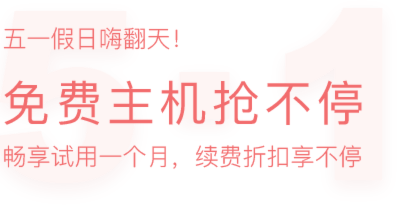
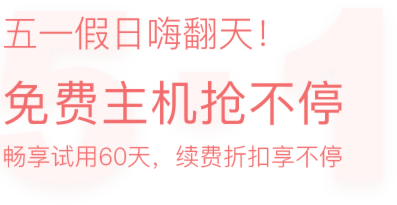
file

Changed region(s): [[0.1209, 0.3805, 0.937, 0.6146], [0.0, 0.0878, 0.665, 0.2634], [0.2418, 0.7024, 0.9068, 0.8195]]

diff --git a/src/components/App/Home.vue b/src/components/App/Home.vue
@@ -2,7 +2,7 @@
   <div id="home">
     <!-- banner 轮播图 -->
     <div class="banner">
-      
+
 
       <my-carousel :interval=5000 effect="fade" class="carousel" @on-change="change">
         <my-carousel-item class="carousel-item">
@@ -26,7 +26,7 @@
               <div>
                 <div>
                   <p>
-                    <img style="padding-top: 0" src="../../assets/img/active/active_1/ziti.png">
+                    <img style="padding-top: 0" src="../../assets/img/active/active_1/ziti1.png">
                   </p>
                   <button>立即领取</button>
                 </div>
@@ -35,9 +35,6 @@
             </div>
           </div>
         </my-carousel-item>
-
-        
-
         <my-carousel-item class="carousel-item">
           <div @click="push('newNodes_1')"
                style="cursor: pointer;background:linear-gradient(90deg, rgba(255, 251, 250, 1), rgba(255, 248, 246, 1));">
@@ -73,22 +70,6 @@
           </div>
         </my-carousel-item>
         <!--<my-carousel-item class="carousel-item">
-          <div @click="push('vps')" style="cursor: pointer;background-image:linear-gradient(90deg,#29abe2,#9cf)">
-            <div style="width:1200px;height:560px;margin:0px auto;position:relative">
-              <img src="../../assets/img/home/carousel-1-1.png" style="position:absolute;right:0px;top:20px;">
-              <div style="position: relative; top: 30%">
-                <p style="font-size: 48px;color: #fff;margin-bottom: 20px;">新手上云</p>
-                <p style="font-size: 48px;color: #fff;margin-bottom: 20px;">可享60天免费体验</p>
-                <p style="font-size: 24px;color:#fff">数量有限，送完为止</p>
-                <button
-                  style="width: 170px;height: 55px;font-family: Microsoft YaHei;font-size: 24px;color: #4481eb;background: #fefe00;margin-top: 20px;border: none;">
-                  立即领取
-                </button>
-              </div>
-            </div>
-          </div>
-        </my-carousel-item>-->
-        <my-carousel-item class="carousel-item">
           <div @click="push('active')" style="cursor: pointer;background-image:linear-gradient(90deg,#E7F0FD,#ACCBEE)">
             <div style="width:1200px;height:560px;margin:0px auto;position:relative">
               <img src="../../assets/img/home/carousel-2-1.png" style="position:absolute;right:0px;top:20px;">
@@ -103,23 +84,7 @@
               </div>
             </div>
           </div>
-        </my-carousel-item>
-        <!-- <my-carousel-item class="carousel-item">
-           <div @click="push('login')" style="cursor: pointer;background-image:linear-gradient(90deg,#E7F0FD,#ACCBEE)">
-             <div style="width:1200px;height:560px;margin:0px auto;position:relative">
-               <img src="../../assets/img/home/carousel-3-1.png"
-                    style="position:absolute;right:0px;top:20px;width:630px;">
-               <div style="position: relative; top: 30%">
-                 <p style="font-size: 48px;color: #5692fe;margin-bottom: 20px;">新睿云技术内测Beat1.0</p>
-                 <p style="font-size: 20px;color: #5692fe;margin-bottom: 20px;">限时开启</p>
-                 <button
-                   style="width: 170px;height: 55px;font-family: Microsoft YaHei;font-size: 24px;color: #4481eb;background: #fefe00;margin-top: 20px;border: none;">
-                   立即领取
-                 </button>
-               </div>
-             </div>
-           </div>
-         </my-carousel-item>-->
+        </my-carousel-item>-->
       </my-carousel>
     </div>
     <!-- 功能介绍区域 -->

diff --git a/src/components/App/active/active_2.vue b/src/components/App/active/active_2.vue
@@ -328,7 +328,7 @@
             src:'/ruicloud/newNodes_1'
           },
           {
-            title:'北京二区（沈阳）盛大开服',
+            title:'北方二区（沈阳）盛大开服',
             text:'春暖花开，活动绽放，3折优惠起',
             src:'/ruicloud/newNodes_2'
           }

diff --git a/src/components/App/active/active_1.vue b/src/components/App/active/active_1.vue
@@ -5,7 +5,7 @@
         <div>
           <div>
             <p>
-              <img src="../../../assets/img/active/active_1/ziti.png">
+              <img src="../../../assets/img/active/active_1/ziti1.png">
             </p>
           </div>
           <transition name="list">
